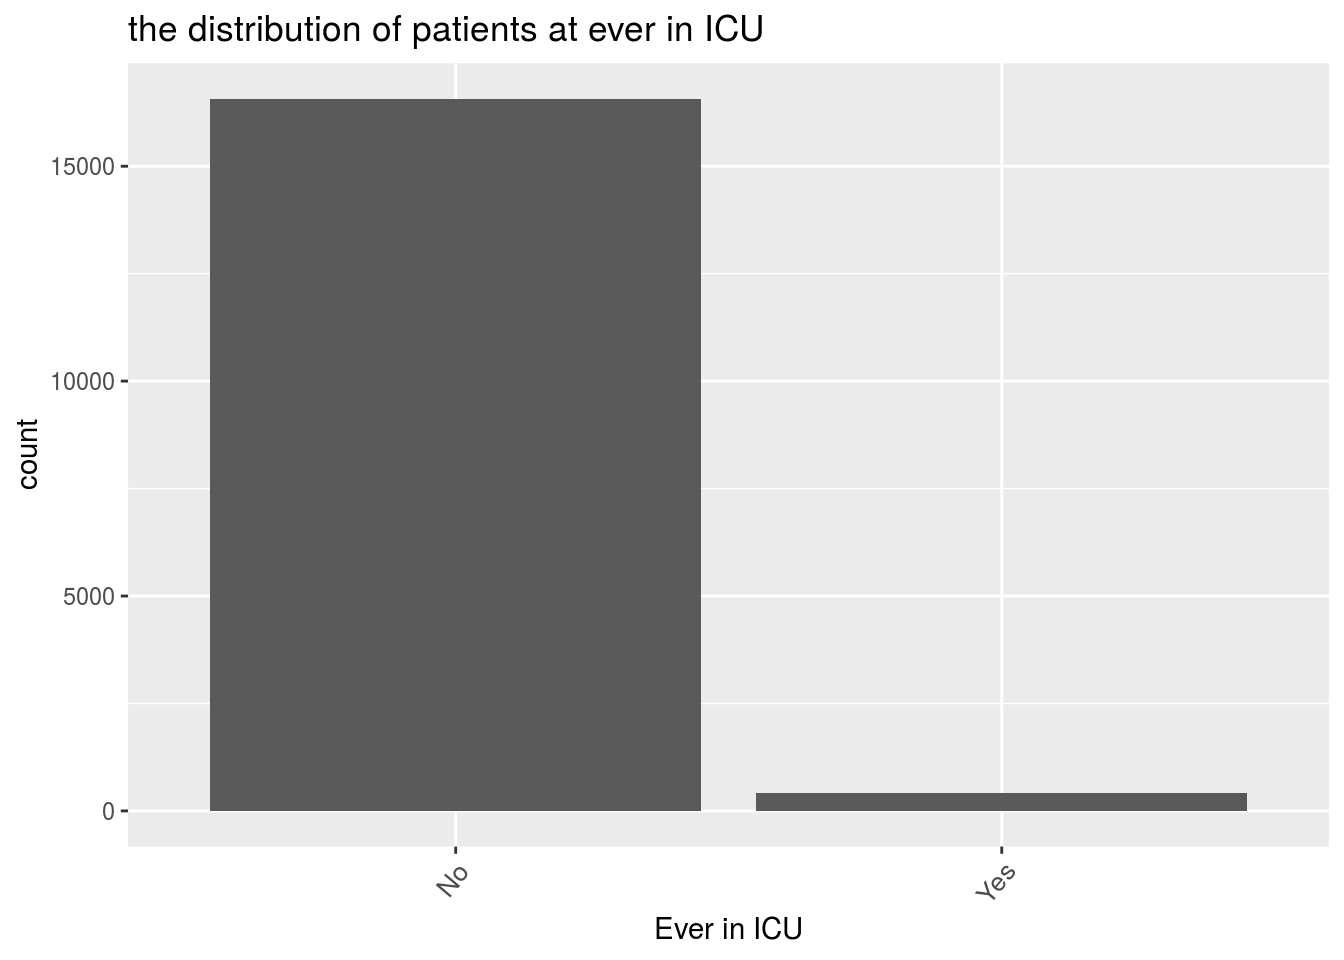
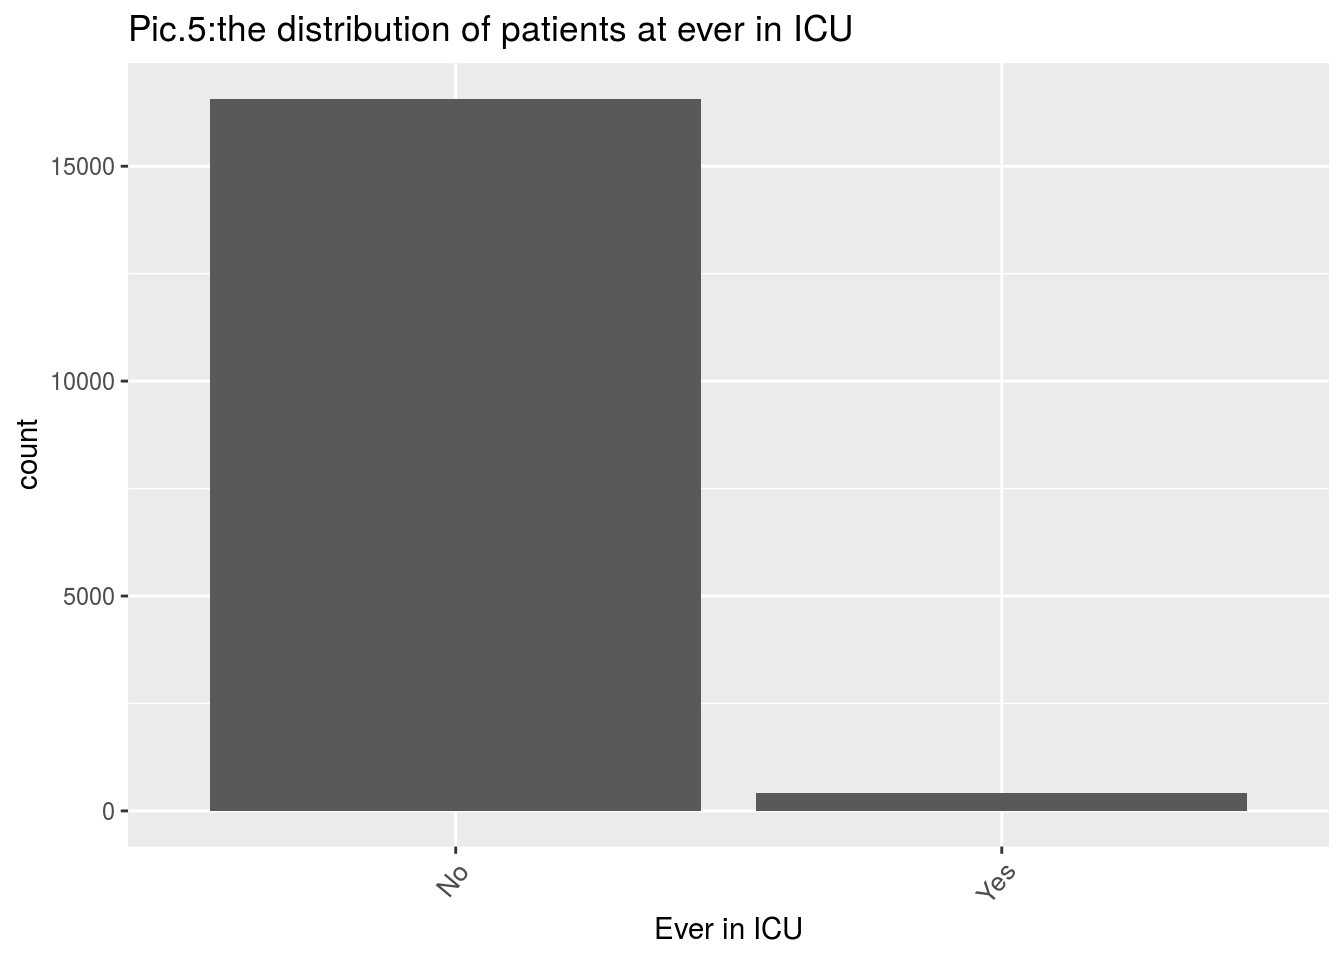
little stitch

Changed region(s): [[0.0938, 0.0, 0.625, 0.0625]]

diff --git a/public/2020/09/27/page2/index.html b/public/2020/09/27/page2/index.html
@@ -177,7 +177,7 @@ ggplot(data3, aes(x = `Age Group`, y = `probability for not cured in different a
 <pre class="r"><code>#2)Gender
 #Test whether there are differences in the probability of resolved at different gender#
 ggplot(data = data3, aes(x=`Client Gender`)) + geom_bar() +
-  labs(title = &quot;the distribution of patients at different gender&quot;) + 
+  labs(title = &quot;Pic.2: the distribution of patients at different gender&quot;) + 
   theme(axis.text.x = element_text(size=10, angle = 50, hjust = 1))</code></pre>
 <p><img src="../../../../post/2020-09-26-page2_files/figure-html/unnamed-chunk-1-2.png" width="672" /></p>
 <pre class="r"><code>data3 %&gt;% group_by(`Client Gender`) %&gt;% summarise(`Probability of not cured at different gender` = mean(Outcome == &quot;No&quot;))</code></pre>
@@ -351,7 +351,7 @@ table(data3$`Neighbourhood Name`)</code></pre>
 ## # … with 131 more rows</code></pre>
 <pre class="r"><code>#4)Source of Infection
 ggplot(data = data3, aes(x=`Source of Infection`)) + geom_bar() +
-  labs(title = &quot;Pic.2: The distribution of patients from difference source of infection&quot;) + 
+  labs(title = &quot;Pic.3: The distribution of patients from difference source of infection&quot;) + 
   theme(axis.text.x = element_text(size=10, angle = 50, hjust = 1))</code></pre>
 <p><img src="../../../../post/2020-09-26-page2_files/figure-html/unnamed-chunk-1-3.png" width="672" /></p>
 <pre class="r"><code>#5)Ever hospital&amp;Ever in ICU&amp;Ever intubated
@@ -381,15 +381,15 @@ data3 %&gt;% group_by(`Ever Hospitalized`) %&gt;%
 ## 2 Yes                                                    0.469</code></pre>
 <pre class="r"><code>#limitation here
 ggplot(data = data3, aes(x=`Ever Hospitalized`)) + geom_bar() +
-  labs(title = &quot;the distribution of patients at ever hospitalized&quot;) + 
+  labs(title = &quot;Pic.4: the distribution of patients at ever hospitalized&quot;) + 
   theme(axis.text.x = element_text(size=10, angle = 50, hjust = 1))</code></pre>
 <p><img src="../../../../post/2020-09-26-page2_files/figure-html/unnamed-chunk-1-4.png" width="672" /></p>
 <pre class="r"><code>ggplot(data = data3, aes(x=`Ever in ICU`)) + geom_bar() +
-  labs(title = &quot;the distribution of patients at ever in ICU&quot;) + 
+  labs(title = &quot;Pic.5:the distribution of patients at ever in ICU&quot;) + 
   theme(axis.text.x = element_text(size=10, angle = 50, hjust = 1))</code></pre>
 <p><img src="../../../../post/2020-09-26-page2_files/figure-html/unnamed-chunk-1-5.png" width="672" /></p>
 <pre class="r"><code>ggplot(data = data3, aes(x=`Ever Intubated`)) + geom_bar() +
-  labs(title = &quot;the distribution of patients at ever intubated&quot;) + 
+  labs(title = &quot;Pic.6: the distribution of patients at ever intubated&quot;) + 
   theme(axis.text.x = element_text(size=10, angle = 50, hjust = 1))</code></pre>
 <p><img src="../../../../post/2020-09-26-page2_files/figure-html/unnamed-chunk-1-6.png" width="672" /></p>
 

diff --git a/content/post/2020-09-26-page2.html b/content/post/2020-09-26-page2.html
@@ -111,7 +111,7 @@ ggplot(data3, aes(x = `Age Group`, y = `probability for not cured in different a
 <pre class="r"><code>#2)Gender
 #Test whether there are differences in the probability of resolved at different gender#
 ggplot(data = data3, aes(x=`Client Gender`)) + geom_bar() +
-  labs(title = &quot;the distribution of patients at different gender&quot;) + 
+  labs(title = &quot;Pic.2: the distribution of patients at different gender&quot;) + 
   theme(axis.text.x = element_text(size=10, angle = 50, hjust = 1))</code></pre>
 <p><img src="/post/2020-09-26-page2_files/figure-html/unnamed-chunk-1-2.png" width="672" /></p>
 <pre class="r"><code>data3 %&gt;% group_by(`Client Gender`) %&gt;% summarise(`Probability of not cured at different gender` = mean(Outcome == &quot;No&quot;))</code></pre>
@@ -285,7 +285,7 @@ table(data3$`Neighbourhood Name`)</code></pre>
 ## # … with 131 more rows</code></pre>
 <pre class="r"><code>#4)Source of Infection
 ggplot(data = data3, aes(x=`Source of Infection`)) + geom_bar() +
-  labs(title = &quot;Pic.2: The distribution of patients from difference source of infection&quot;) + 
+  labs(title = &quot;Pic.3: The distribution of patients from difference source of infection&quot;) + 
   theme(axis.text.x = element_text(size=10, angle = 50, hjust = 1))</code></pre>
 <p><img src="/post/2020-09-26-page2_files/figure-html/unnamed-chunk-1-3.png" width="672" /></p>
 <pre class="r"><code>#5)Ever hospital&amp;Ever in ICU&amp;Ever intubated
@@ -315,14 +315,14 @@ data3 %&gt;% group_by(`Ever Hospitalized`) %&gt;%
 ## 2 Yes                                                    0.469</code></pre>
 <pre class="r"><code>#limitation here
 ggplot(data = data3, aes(x=`Ever Hospitalized`)) + geom_bar() +
-  labs(title = &quot;the distribution of patients at ever hospitalized&quot;) + 
+  labs(title = &quot;Pic.4: the distribution of patients at ever hospitalized&quot;) + 
   theme(axis.text.x = element_text(size=10, angle = 50, hjust = 1))</code></pre>
 <p><img src="/post/2020-09-26-page2_files/figure-html/unnamed-chunk-1-4.png" width="672" /></p>
 <pre class="r"><code>ggplot(data = data3, aes(x=`Ever in ICU`)) + geom_bar() +
-  labs(title = &quot;the distribution of patients at ever in ICU&quot;) + 
+  labs(title = &quot;Pic.5:the distribution of patients at ever in ICU&quot;) + 
   theme(axis.text.x = element_text(size=10, angle = 50, hjust = 1))</code></pre>
 <p><img src="/post/2020-09-26-page2_files/figure-html/unnamed-chunk-1-5.png" width="672" /></p>
 <pre class="r"><code>ggplot(data = data3, aes(x=`Ever Intubated`)) + geom_bar() +
-  labs(title = &quot;the distribution of patients at ever intubated&quot;) + 
+  labs(title = &quot;Pic.6: the distribution of patients at ever intubated&quot;) + 
   theme(axis.text.x = element_text(size=10, angle = 50, hjust = 1))</code></pre>
 <p><img src="/post/2020-09-26-page2_files/figure-html/unnamed-chunk-1-6.png" width="672" /></p>

diff --git a/content/post/2015-07-23-r-rmarkdown.html b/content/post/2015-07-23-r-rmarkdown.html
@@ -79,7 +79,6 @@ tags: ["R Markdown", "plot", "regression"]
 <p><font size=3>        By analysis, we could conclude that age is a risk factor and for people elder than 70 years old, they will be in the high risk for severe COVID-19. Gender could be a feature but not be a distinct risk factor, females are more likely to have COVID-19, but they also have higher probability of cured than males. Source is another risk factor, it notice us that gathering crowds of people together and closely contact to each other may increase the risk of infection a lot. People in high risk for severe COVID-19 should prevent this. And treatment could make people have higher probability to be cured, so if people with higher risk for severe COVID-19 when they find out themselves have COVID-19, they need to go to hospital that treatments are helpful.
 Besides, I also observed several limitations. First of all, the dataset has too few kinds of variables to support the research on risk factors. Like what have been mentioned in the report from CDC, race, certain medications usage, Poverty and crowding might also be potential risk factors. However, these features do not be recorded in the dataset. Besides, the amount of some kinds of variables is not plenty enough. For example,there is a huge difference between the number of people who are hospitalized and those who are not hospitalized (Refer to Appendix:code-Pic.4). This may affect the result of our study.</font><br />
 <font size=3>        In the next step, I will try to get more datas for analysis, and try to use these variables to construct a model for identifying patients who is in danger of sever COVID-19.</font></p>
-<p><img src="/post/2015-07-23-r-rmarkdown_files/figure-html/unnamed-chunk-7-1.png" width="672" /><img src="/post/2015-07-23-r-rmarkdown_files/figure-html/unnamed-chunk-7-2.png" width="672" /><img src="/post/2015-07-23-r-rmarkdown_files/figure-html/unnamed-chunk-7-3.png" width="672" /></p>
 </div>
 <div id="appendix" class="section level1">
 <h1>Appendix</h1>

diff --git a/public/2020/09/27/what-would-be-the-risk-factors-for-severe-covid-19-a-population-based-statistical-study-of-17872-patients-record-in-toronto/index.html b/public/2020/09/27/what-would-be-the-risk-factors-for-severe-covid-19-a-population-based-statistical-study-of-17872-patients-record-in-toronto/index.html
@@ -145,7 +145,6 @@
 <p><font size=3>        By analysis, we could conclude that age is a risk factor and for people elder than 70 years old, they will be in the high risk for severe COVID-19. Gender could be a feature but not be a distinct risk factor, females are more likely to have COVID-19, but they also have higher probability of cured than males. Source is another risk factor, it notice us that gathering crowds of people together and closely contact to each other may increase the risk of infection a lot. People in high risk for severe COVID-19 should prevent this. And treatment could make people have higher probability to be cured, so if people with higher risk for severe COVID-19 when they find out themselves have COVID-19, they need to go to hospital that treatments are helpful.
 Besides, I also observed several limitations. First of all, the dataset has too few kinds of variables to support the research on risk factors. Like what have been mentioned in the report from CDC, race, certain medications usage, Poverty and crowding might also be potential risk factors. However, these features do not be recorded in the dataset. Besides, the amount of some kinds of variables is not plenty enough. For example,there is a huge difference between the number of people who are hospitalized and those who are not hospitalized (Refer to Appendix:code-Pic.4). This may affect the result of our study.</font><br />
 <font size=3>        In the next step, I will try to get more datas for analysis, and try to use these variables to construct a model for identifying patients who is in danger of sever COVID-19.</font></p>
-<p><img src="../../../../post/2015-07-23-r-rmarkdown_files/figure-html/unnamed-chunk-7-1.png" width="672" /><img src="../../../../post/2015-07-23-r-rmarkdown_files/figure-html/unnamed-chunk-7-2.png" width="672" /><img src="../../../../post/2015-07-23-r-rmarkdown_files/figure-html/unnamed-chunk-7-3.png" width="672" /></p>
 </div>
 <div id="appendix" class="section level1">
 <h1>Appendix</h1>
